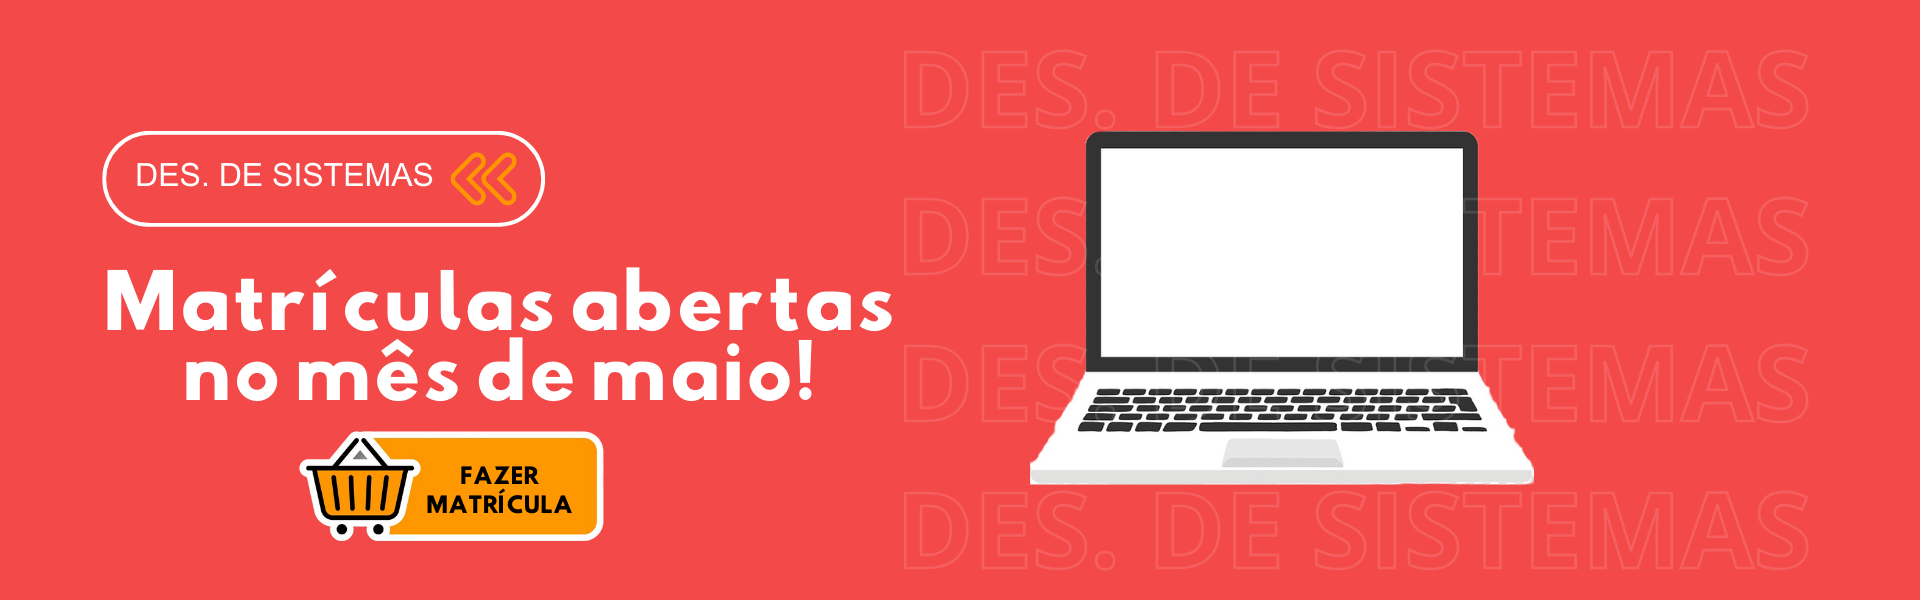
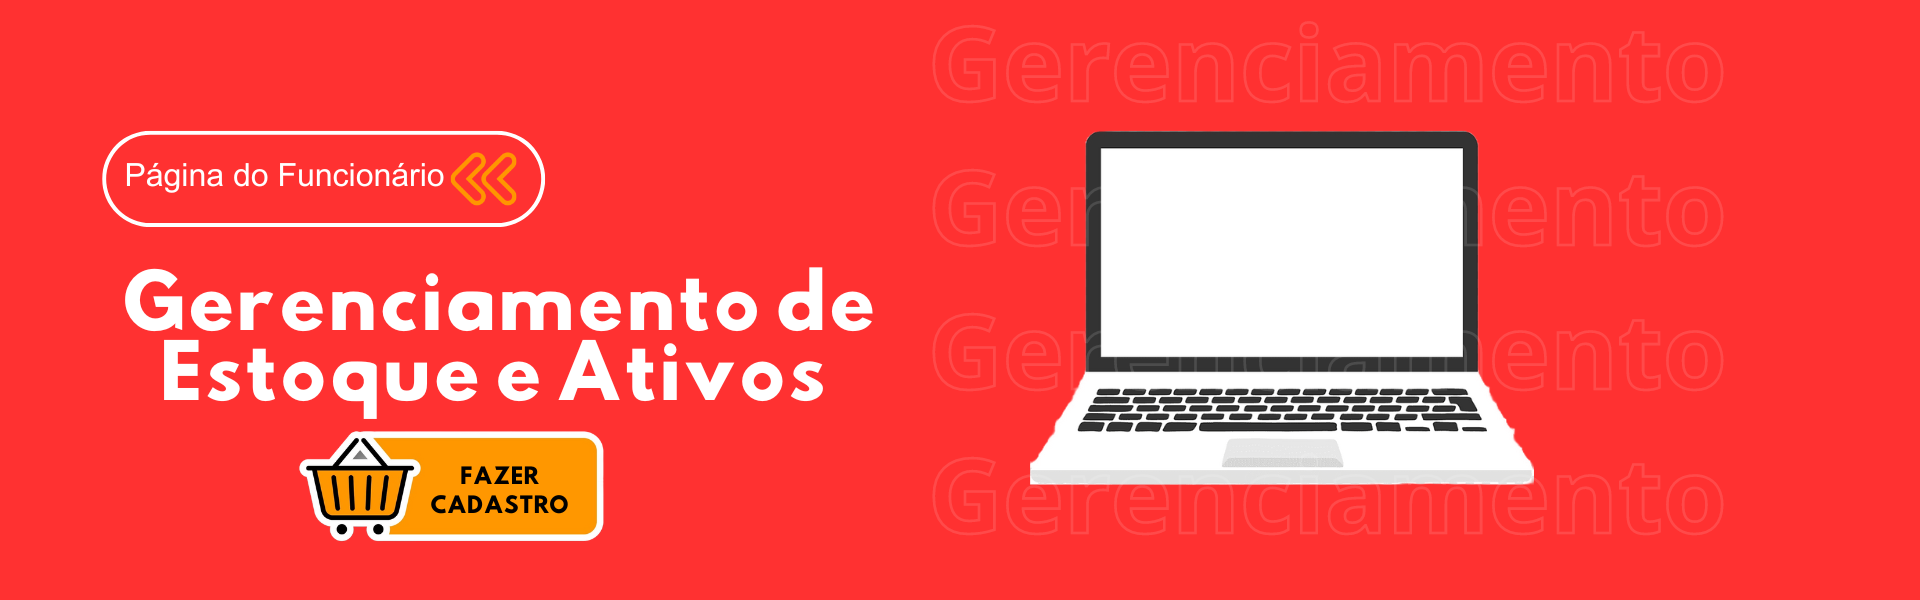
aulas

diff --git a/gerenciamento/src/main/resources/templates/gerenciamento/gerenciamento-estoque.html b/gerenciamento/src/main/resources/templates/gerenciamento/gerenciamento-estoque.html
@@ -16,12 +16,12 @@
         <div th:each="estoque : ${estoques}" class="col-md-4">
             <div class="card mb-4">
                 <div class="card-body">
-                    <h5 class="card-title" th:text="${oficina.nomeOficina}">Nome da Oficina</h5>
-                    <p class="card-text">Responsável: <span th:text="${oficina.funcionario.nomeFuncionario}">Nome do Funcionário</span></p>
-                    <p class="card-text">CPF: <span th:text="${oficina.funcionario.cpf}">CPF do Funcionário</span></p>
-                    <a th:href="@{'/edit-oficina/' + ${oficina.idOficina}}" class="btn btn-primary">Editar</a>
-                    <a th:href="@{'/delete-oficina/' + ${oficina.idOficina}}" class="btn btn-danger">Excluir</a>
-                    <a href="/cadastro-patrimonio" class="btn btn-primary">Ativos patrimoniais</a>
+                    <h5 class="card-title" th:text="${estoque.nome}">Nome</h5>
+                    <p class="card-text">Categoria: <span th:text="${estoque.categoria}">Categoria</span></p>
+                    <p class="card-text">Quantidade: <span th:text="${estoque.quantidade}">Quantidade</span></p>
+                    <a th:href="@{'/edit-estoque/' + ${estoque.idEstoque}}" class="btn btn-primary">Editar</a>
+                    <a th:href="@{'/delete-estoque/' + ${estoque.idEstoque}}" class="btn btn-danger">Excluir</a>
+                    
                 </div>
             </div>
         </div>

diff --git a/gerenciamento/src/main/resources/templates/gerenciamento/gerenciamento-oficina.html b/gerenciamento/src/main/resources/templates/gerenciamento/gerenciamento-oficina.html
@@ -21,7 +21,8 @@
                     <p class="card-text">CPF: <span th:text="${oficina.funcionario.cpf}">CPF do Funcionário</span></p>
                     <a th:href="@{'/edit-oficina/' + ${oficina.idOficina}}" class="btn btn-primary">Editar</a>
                     <a th:href="@{'/delete-oficina/' + ${oficina.idOficina}}" class="btn btn-danger">Excluir</a>
-                    <a href="/cadastro-patrimonio" class="btn btn-primary">Ativos patrimoniais</a>
+                    <a href="/cadastro-patrimonio" class="btn btn-primary">Cadastrar Ativo Patrimonial</a>
+                    <a href="/cadastro-estoque" class="btn btn-primary">Cadastrar Estoque</a>
                 </div>
             </div>
         </div>

diff --git a/gerenciamento/src/main/resources/static/css/cadastro-oficina.css b/gerenciamento/src/main/resources/static/css/cadastro-oficina.css
@@ -4,8 +4,8 @@
     margin-top: 12vh;
     padding: 20px;
     border: 1px solid #ccc;
-    border-radius: 10px;
-    background-color: #f9f9f9;
+    border-radius: 20px;
+    background: #dd5e5e;
 }
 
 h2 {
@@ -37,10 +37,11 @@ button[type="submit"] {
     color: white;
     border: none;
     cursor: pointer;
+    transition: 0.3s;
 }
 
 button[type="submit"]:hover {
-    background-color: #ca3e3e;
+    background-color: #be1818;
 }
 
 .error-message {

diff --git a/gerenciamento/src/main/resources/static/css/cadastro-sala.css b/gerenciamento/src/main/resources/static/css/cadastro-sala.css
@@ -4,8 +4,8 @@
     margin-top: 12vh;
     padding: 20px;
     border: 1px solid #ccc;
-    border-radius: 10px;
-    background-color: #f9f9f9;
+    border-radius: 20px;
+    background: #dd5e5e;
 }
 
 h2 {
@@ -37,10 +37,11 @@ button[type="submit"] {
     color: white;
     border: none;
     cursor: pointer;
+    transition: 0.3s;
 }
 
 button[type="submit"]:hover {
-    background-color: #ca3e3e;
+    background-color: #be1818;
 }
 
 .error-message {

diff --git a/gerenciamento/src/main/resources/static/css/cadastro-estoque.css b/gerenciamento/src/main/resources/static/css/cadastro-estoque.css
@@ -1,11 +1,12 @@
 .container {
     max-width: 600px;
     margin: 0 auto;
-    margin-top: 12vh;
+    margin-top: 2vh;
     padding: 20px;
-    background-color: #f9f9f9;
+    background: #dd5e5e;
     border-radius: 8px;
     box-shadow: 0 0 10px rgba(0, 0, 0, 0.1);
+    margin-top: 10%;
 }
 
 h2 {
@@ -41,6 +42,7 @@ h2 {
     border-radius: 4px;
     cursor: pointer;
     font-size: 16px;
+    transition: 0.3s;
 }
 
 .form-group button:hover {

diff --git a/gerenciamento/src/main/resources/static/css/cadastro-patrimonio.css b/gerenciamento/src/main/resources/static/css/cadastro-patrimonio.css
@@ -3,9 +3,10 @@
     margin: 0 auto;
     margin-top: 2vh;
     padding: 20px;
-    background-color: #f9f9f9;
+    background: #dd5e5e;
     border-radius: 8px;
     box-shadow: 0 0 10px rgba(0, 0, 0, 0.1);
+    margin-top: 10%;
 }
 
 h2 {
@@ -44,6 +45,7 @@ h2 {
     border-radius: 4px;
     cursor: pointer;
     font-size: 16px;
+    transition: 0.3s;
 }
 
 .form-group button:hover {

diff --git a/gerenciamento/src/main/resources/templates/fragmentos/header_logado.html b/gerenciamento/src/main/resources/templates/fragmentos/header_logado.html
@@ -31,6 +31,9 @@
                     <a href="/gerenciamento-patrimonio">Patrimonios</a>
                 </li>
                 <li>
+                    <a href="/gerenciamento-estoque">Estoques</a>
+                </li>
+                <li>
                     <a href="/logout-funcionario">Sair da conta</a>
                 </li>
             </ul>

diff --git a/gerenciamento/src/main/java/com/example/gerenciamento/Controller/EstoqueController.java b/gerenciamento/src/main/java/com/example/gerenciamento/Controller/EstoqueController.java
@@ -26,7 +26,7 @@ public class EstoqueController {
         try {
             estoqueRepository.save(estoque);
             System.out.println("Cadastro realizado com sucesso!");
-            return "index";
+            return "/interna/interna-funcionario";
         } catch (Exception e) {
             System.out.println("Erro ao cadastrar estoque: " + e.getMessage());
             return "/crud/estoque/cadastro-estoque";
